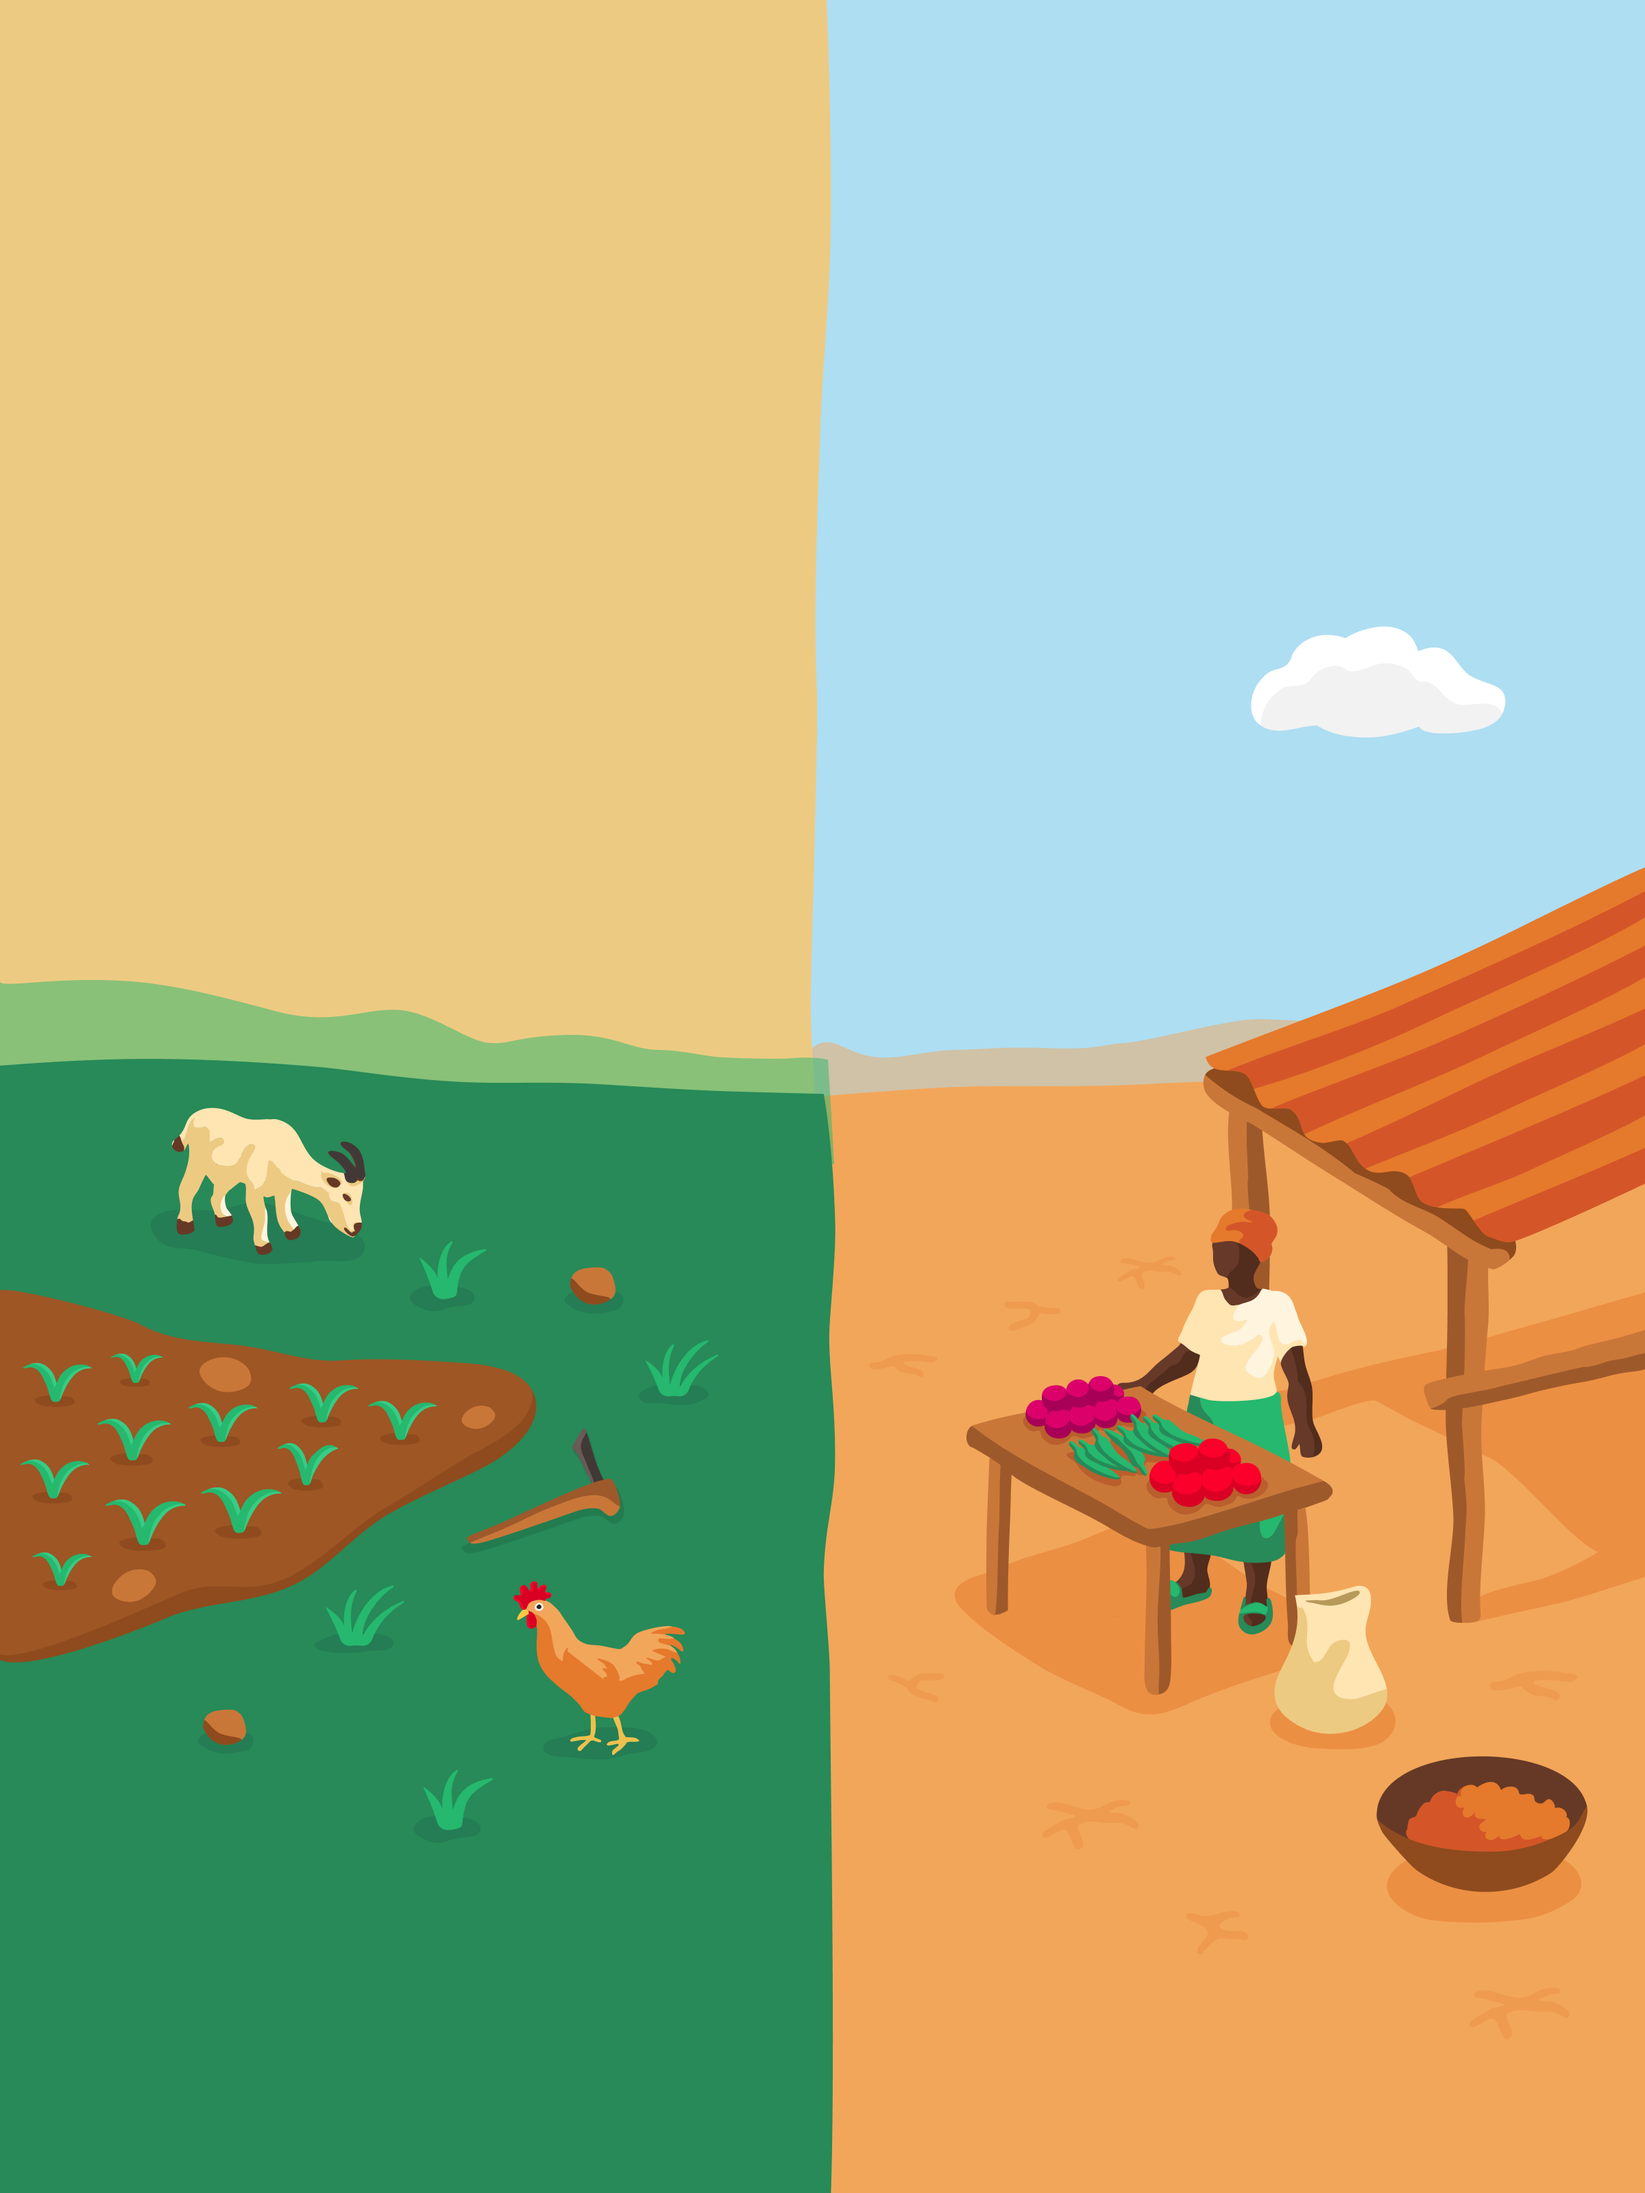
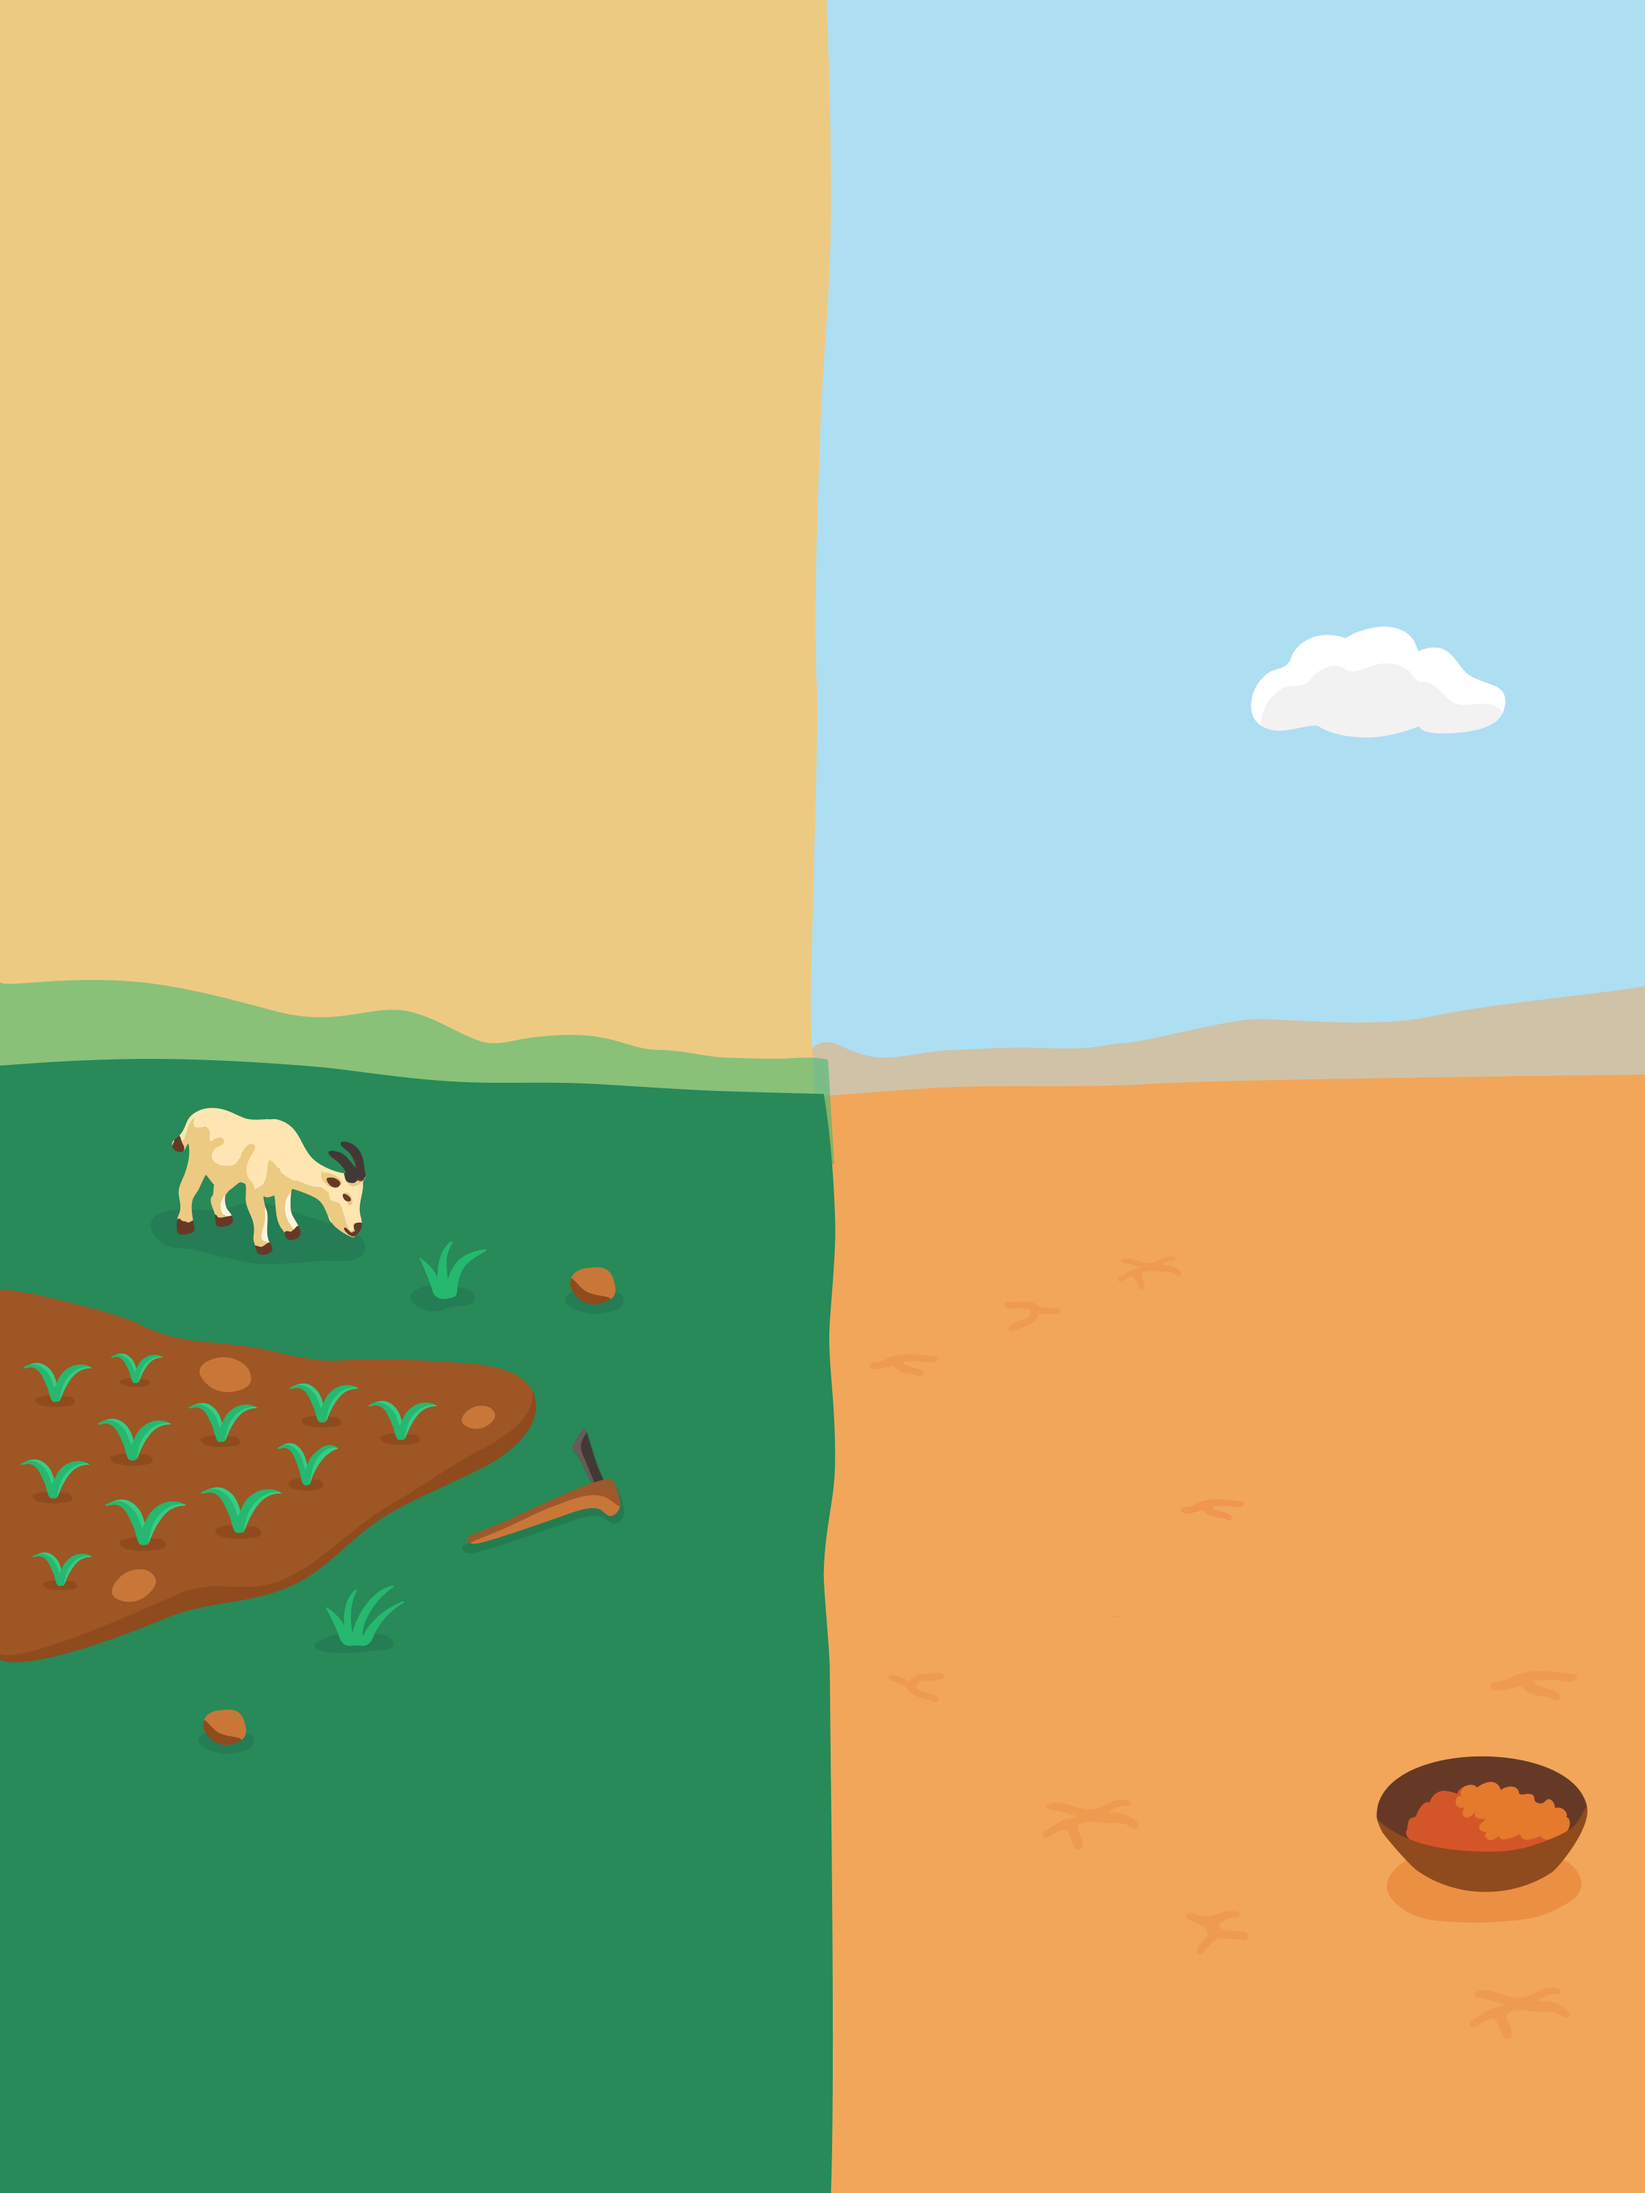
adds animations

diff --git a/apps/minodu-frontend/src/routes/+page.svelte b/apps/minodu-frontend/src/routes/+page.svelte
@@ -1,9 +1,14 @@
 <script lang="ts">
 	import tileImageMobile from '$lib/assets/startscreen_background_mobile.png';
 	import tileImageTablet from '$lib/assets/startscreen_background_tablet.png';
-	import baobapImage from '$lib/assets/baobap.png';
+	import baobapImage from '$lib/assets/baobap-animation.webp';
 	import chatImage from '$lib/assets/startscreen_chat.png';
-	import cloudImage from '$lib/assets/startscreen_cloud.png';
+	import cloudImage from '$lib/assets/cloud-animation.webp';
+	import chickenImage from '$lib/assets/chicken-animation.webp';
+	import vendorImage from '$lib/assets/vendor-animation.webp';
+	import vendorHutImage from '$lib/assets/vendor-hut.png';
+	import grass1Image from '$lib/assets/gras1-animation.webp';
+	import grass2Image from '$lib/assets/gras2-animation.webp';
 	import ExplainPageButton from '$lib/components/common/ExplainPageButton.svelte';
 
 	let { children } = $props();
@@ -66,6 +71,13 @@
 		bottom:0;
 		left:0;
 		right:0;
+		overflow: hidden;
+	}
+
+	#object-overlay-container img {
+		width: 100%;
+		height: 100%;
+		object-fit: contain;
 	}
 
 	#tree {
@@ -73,55 +85,78 @@
 		top: 44%;
 		left: 50%;
 		transform: translate(-50%, -50%);
-	}
-
-	#tree img {
-		width: 50vw;
-		height: 30vh;
+		width: 50%;
+		height: 50%;
 		min-width: 300px;
-		object-fit: contain;
 	}
 
 	#cloud {
 		position: absolute;
-		top: 0%;
-    	left: 50%;
-		bottom:50%;
-		right: 0%;
+		top: 5%;
+    	right: 10%;
+		width: 30%;
+		height: 30%;
+		min-width: 130px;
 	}
 
-	#cloud img {
-		position: absolute;
-		top: 15%;
-		right:20%;
-		width: 50%;
-		height: 40%;
-		min-width: 130px;
-		object-fit: contain;
-	}
 
 	#chat {
 		position: absolute;
-		top: 0%;
-    	left: 0%;
-		bottom:50%;
-		right: 50%;
+		top: 5%;
+    	left: 10%;
+		width: 25%;
+		height: 20%;
+		min-width: 130px;
 	}
 
-	#chat img {
+	#gras1 {
 		position: absolute;
-		top: 15%;
-		left:20%;
-		width: 50%;
-		height: 40%;
-		min-width: 130px;
-		object-fit: contain;
+		bottom:38%;
+		left:40%;
+		width: 7%;
+		height: 7%;
 	}
+
+	#gras2 {
+		position: absolute;
+		bottom:25%;
+		left:35%;
+		width: 7%;
+		height: 7%;
+	}
+
+	#chicken {
+		position: absolute;
+		bottom: 18%;
+    	left: 21%;
+		width: 10%;
+		height: 9%;
+		min-width: 130px;
+	}
+
+	#vendor {
+		position: absolute;
+		bottom:15%;
+		right:8%;
+		width: 40%;
+		height: 30%;
+	}
+
+	#vendor-hut {
+		position: absolute;
+		bottom:20%;
+		right:-10%;
+		width: 40%;
+		height: 40%;
+	}
+
+	
+
 
 </style>
 
 <div class="content-width">
-	<div id="tile-image-container">
+	<div id="tile-image-container" class="content-width">
 		<img 
 			src={tileImageMobile} 
 			alt="4 minodu tiles showing different apps"
@@ -131,7 +166,7 @@
 			alt="4 minodu tiles showing different apps"
 			class="responsive-image tablet"/>
 	</div>
-	<div id="object-overlay-container">
+	<div id="object-overlay-container" class="content-width">
 		<div id="cloud">
 			<img
 				src={cloudImage}
@@ -146,6 +181,31 @@
 			<img
 				src={baobapImage}
 				alt="a baobap tree"/>
+		</div>
+		<div id="gras1">
+			<img
+				src={grass1Image}
+				alt="some grass"/>
+		</div>
+		<div id="gras2">
+			<img
+				src={grass2Image}
+				alt="some grass"/>
+		</div>
+		<div id="chicken">
+			<img
+				src={chickenImage}
+				alt="a non-white chicken"/>
+		</div>
+		<div id="vendor-hut">
+			<img
+				src={vendorHutImage}
+				alt="a market stall"/>
+		</div>
+		<div id="vendor">
+			<img
+				src={vendorImage}
+				alt="a woman selling vegetables"/>
 		</div>
 	</div>
 	<div class="grid-link-container">

diff --git a/apps/minodu-frontend/src/lib/pages/ForumPage.svelte b/apps/minodu-frontend/src/lib/pages/ForumPage.svelte
@@ -13,18 +13,22 @@
 	import { fly, fade } from 'svelte/transition';
 
 	import createPostButton from '$lib/assets/forum-new-post-button.png';
-	import type { HtmlTagDescriptor } from 'vite';
+	import { waitForAnimationFrame } from '$lib/utils';
 
-	let createAuthorDialog: AuthorCreateDialog;
+	// let createAuthorDialog: AuthorCreateDialog;
 	let ttsPlayer: TextToSpeechPlayer;
 
 	let scrollContainer : HTMLDivElement;
 	
-
 	let posts: ForumPost[] = [];
+	let visiblePosts: ForumPost[] = [];
+
 	let author: Optional<ForumAuthor> = undefined;
 
 	let showCreatePostDialog : boolean = false;
+
+	let showNumberOfPosts : number = 3;
+	let loadingMorePosts : boolean = false
 
 	onMount(() => {
 		update(false)
@@ -47,6 +51,8 @@
 		posts = await ForumApi.getPosts();
 		author = await ForumApi.checkToken();
 
+		await waitForAnimationFrame();
+		
 		scrollContainer.scrollTo({
 			top: scrollContainer.scrollHeight,
 			behavior: smoothScroll ? "smooth" : undefined
@@ -65,10 +71,33 @@
 		Store.forumToken = undefined;
 		author = undefined;
 	}
+
+	async function handleScroll() {
+		
+		// //Check if scrolled to top (with small threshold)
+		// if (scrollContainer.scrollTop < 100 && !loadingMorePosts) {
+		// 	loadingMorePosts = true;
+		// 	const scrollBottom = scrollContainer.scrollHeight - scrollContainer.scrollTop - scrollContainer.clientHeight;
+		// 	showNumberOfPosts += 3;
+		// 	// if (showNumberOfPosts < posts.length) {
+		// 	// 	console.log("load more");
+		// 	// 	showNumberOfPosts += 3;
+		// 	// 	// posts = (await ForumApi.getPosts()).splice(-showNumberOfPosts);
+				
+		// 	// 	await waitForAnimationFrame();
+				
+		// 	// 	scrollContainer.scrollTo({
+		// 	// 		top: scrollContainer.scrollHeight - scrollContainer.clientHeight - scrollBottom
+		// 	// 	});
+		// 	// }
+		// 	console.log(showNumberOfPosts)
+		// 	loadingMorePosts = false;
+		// }
+  };
 </script>
 
 <div class="forum-page">
-	<div class="scroll-container" bind:this={scrollContainer}>
+	<div class="scroll-container" bind:this={scrollContainer} onscroll={handleScroll}>
 		<div class="post-container content-width">
 			{#if posts.length > 0}
 				<ul>
@@ -112,11 +141,13 @@
 		position: fixed;
 		top:0;
 		left:0;
-		height: 100vh;
-		width: 100vw;
+		right:0;
+		bottom: var(--footer-height);
 		background-color: #EDCA82;
 		overflow: scroll;
 	}
+
+	
 
 	.create-post-container {
 		position: fixed;
@@ -133,7 +164,7 @@
 
 	.post-container {
 		padding: var(--page-padding);
-		margin-bottom: calc(var(--footer-height) + var(--page-padding) + 60px);
+		margin-bottom: calc(var(--page-padding) + var(--button-size));
 		box-sizing: border-box;
 	}
 
@@ -149,5 +180,15 @@
 	.no-posts {
 		text-align: center;
 		font-weight: 800;
+	}
+
+	@media screen and (min-width: 550px) {
+		.scroll-container {
+			bottom: 0;
+		}
+
+		.post-container {
+			margin-bottom: calc(var(--page-padding) + var(--footer-height) + var(--button-size));
+		}
 	}
 </style>

diff --git a/apps/minodu-frontend/src/lib/utils.ts b/apps/minodu-frontend/src/lib/utils.ts
@@ -4,6 +4,14 @@ export function delay(ms: number): Promise<void> {
 	});
 }
 
+export function waitForAnimationFrame() : Promise<void> {
+	return new Promise((resolve) => {
+		requestAnimationFrame(() => {
+			requestAnimationFrame(() => resolve());
+  		});
+	});
+}
+
 export function mimeTypeToFileExtension(mimeType: string): string {
 	const mimeToExtension: Record<string, string> = {
 		// Images
